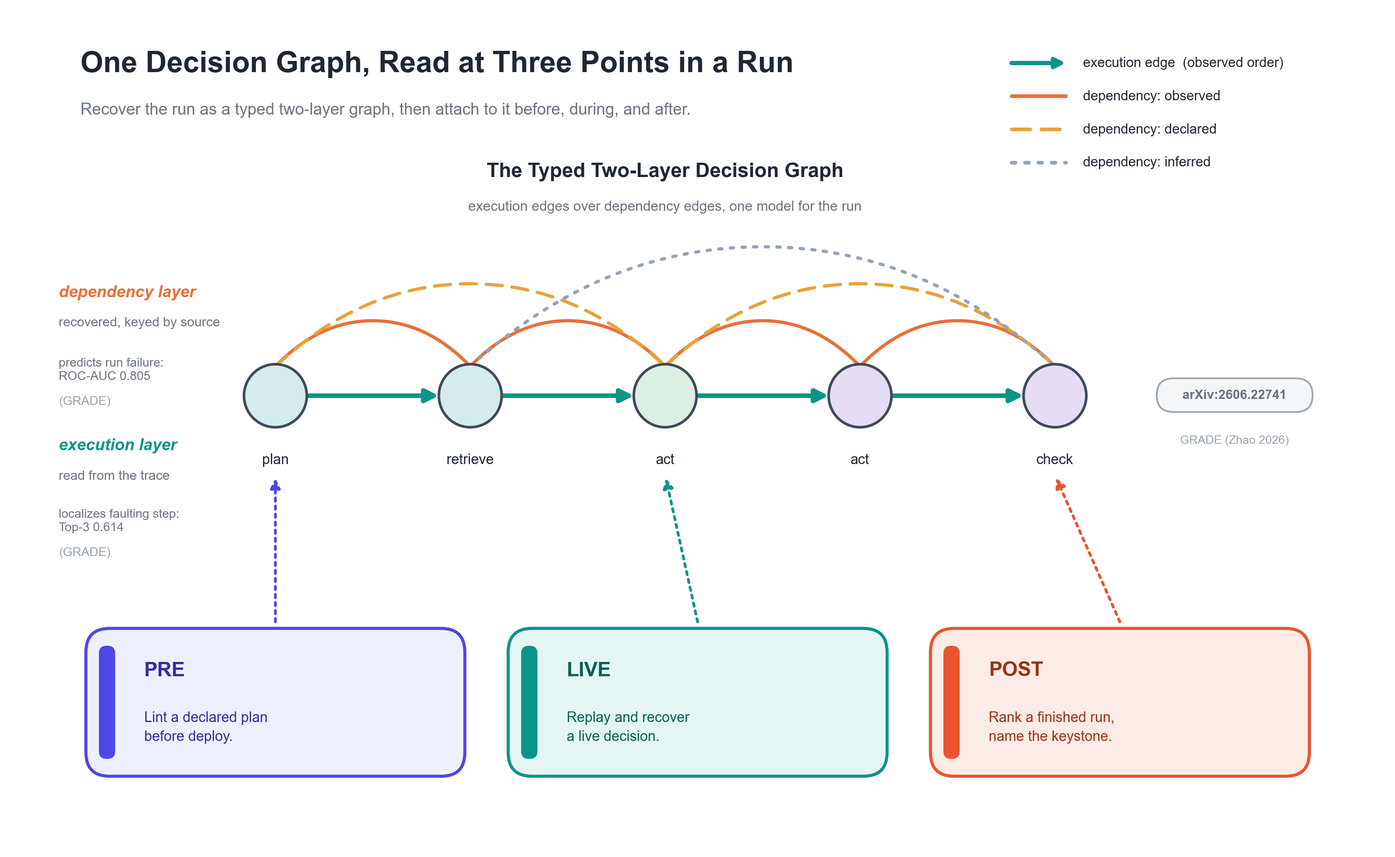
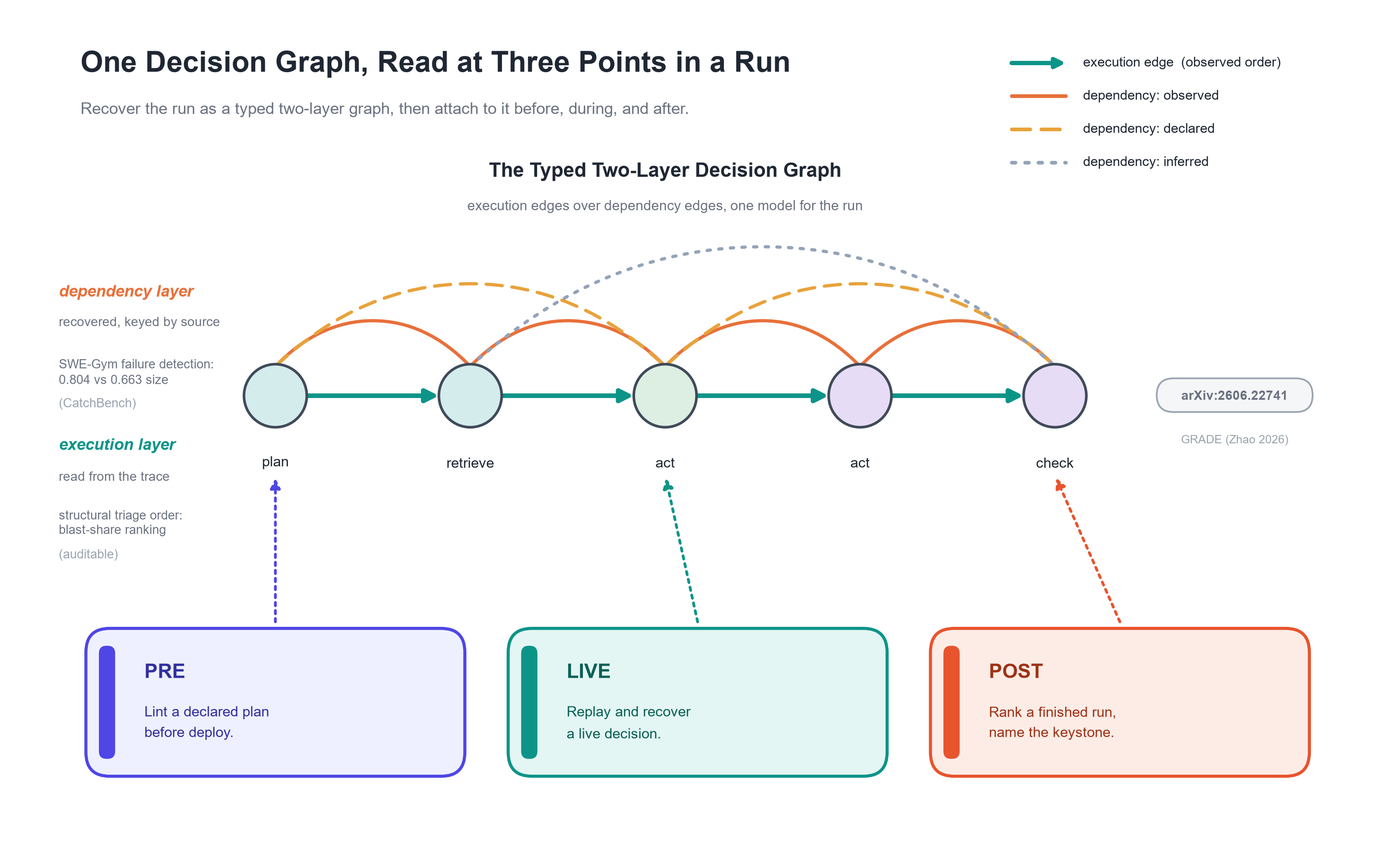
Attribute the localization numbers to the method that earned them, and ship 0.2.1
The product copy claimed results the about-to-publish benchmark contradicts. Top-3 0.614 was
advertised as this package's own, and it belongs to GRADE's supervised execution-feature ranker;
the shipping blast-share method scores 0.516 and ties the position prior at displayed precision.
A "run length carries no signal" line sat next to a 0.663 run-length baseline. The docs now name
the method behind each number, and every figure in the prose matches the shipped board.

The regenerated localization figure labels its methods, so a reader can see which curve is ours.
The quickstart no longer tells a PyPI installer to run examples/, which the wheel does not carry.
The retired benchmark name is gone.

0.2.1 exists because a PyPI description cannot be edited after release: the corrected wording only
reaches the project page through a new version.

diff --git a/assets/figure-src/analyze_run_mockup.html b/assets/figure-src/analyze_run_mockup.html
@@ -73,7 +73,7 @@
         <span class="brand">auditable<span class="dot">.</span></span>
         <span class="tag">Rank a recorded agent run by structural risk</span>
       </div>
-      <div class="sub">Build one decision graph from a run, then flag the single decision the rest of the run depends on, and review that first.</div>
+      <div class="sub">Build one decision graph from a run, then rank every step by structural blast share and name the keystone.</div>
     </div>
 
     <div class="body">
@@ -123,7 +123,7 @@
         <div class="clabel">auditable <span class="n">· structural-risk output (analyze_run)</span></div>
         <div class="keycard">
           <div class="kl">
-            <div class="t">KEYSTONE · REVIEW FIRST</div>
+            <div class="t">KEYSTONE · STRUCTURAL TRIAGE</div>
             <div class="tool">get_reservation_details</div>
             <div class="s">2 of 6 other steps transitively rest on this one read</div>
           </div>

diff --git a/examples/example_post_rank_run.py b/examples/example_post_rank_run.py
@@ -2,21 +2,21 @@
 
 What this shows, in plain terms: given a run that already finished, auditable
 builds one typed decision graph over it, scores every step by how much of the
-rest of the run rests on it, and names the single step to review first (the
-keystone). This is the lifecycle pillar where the GRADE results live.
+rest of the run rests on it, and names the keystone that heads this structural
+triage order.
 
-GRADE relation (cite arXiv:2606.22741): the graph's two layers are what GRADE
-measures on a six-corpus benchmark. The dependency layer PREDICTS run failure
-(ROC-AUC 0.805 on SWE-Gym, +0.142 over the run-length baseline), and the
-execution layer LOCALIZES the faulting step (Top-3 0.614 on Who&When). IMPORTANT:
-those are GRADE full-corpus numbers, NOT outputs of this example. The trajectory
-below is a small illustrative tau-bench-style run; it prints a keystone ranking,
-not a benchmark score. The corpus-scale evaluation lives in GRADE.
+CatchBench relation: on SWE-Gym, ``auditable (size+deps)`` scores ROC-AUC 0.804
+against 0.663 for ``size (flat)``; comparisons with ECOD and GUARDIAN remain
+unresolved. On Who&When, Top-3 0.614 belongs to GRADE's supervised
+``exec-rank (sup.)``. The shipping ``auditable (blast share)`` method scores
+0.516 and ties the position prior at displayed precision. These are benchmark
+numbers, NOT outputs of this example. The trajectory below is a small
+illustrative tau-bench-style run and prints a structural keystone ranking.
 
 auditable attaches at three points in an agent's lifecycle. This is the POST
 pillar: read a recorded run after it completes, build one typed session decision
 graph, score every step by how much of the rest of the run transitively rests on
-it, and report the riskiest decision to review first. The other two pillars are
+it, and report the keystone that heads the structural triage order. The other two pillars are
 example_pre_lint_plan.py (PRE: lint a declared plan before deploy) and
 example_live_replay.py (LIVE: replay under live state and execute a fix). All
 three run over the same typed two-layer graph. No live agent, no API key, no
@@ -91,7 +91,7 @@ def main():
     print(
         f"\nKeystone: step {k.idx} ({k.node_attrs['tool']}) -- "
         f"two consequential writes (rebook, add bag) rest on this one read, "
-        f"so auditable ranks it first to review."
+        f"so it heads auditable's structural triage order."
     )
 
 

diff --git a/figure-src/localization.py b/figure-src/localization.py
@@ -1,0 +1,66 @@
+"""Generate the method-labeled CatchBench localization figure."""
+
+from pathlib import Path
+
+import matplotlib
+
+matplotlib.use("Agg")
+import matplotlib.pyplot as plt
+import numpy as np
+
+
+ROOT = Path(__file__).resolve().parent.parent
+METRICS = ("Top-1", "Top-3", "MRR")
+METHODS = (
+    ("random", (0.119, 0.346, 0.324), "#c7c7c7"),
+    ("position prior", (0.159, 0.516, 0.407), "#b9d9cc"),
+    ("auditable (blast share)", (0.159, 0.516, 0.407), "#e8a23a"),
+    ("exec-rank (sup.)", (0.211, 0.614, 0.454), "#3c5488"),
+)
+
+
+fig, ax = plt.subplots(figsize=(7.4, 4.2))
+x = np.arange(len(METRICS))
+width = 0.19
+
+for offset, (label, values, color) in enumerate(METHODS):
+    bars = ax.bar(
+        x + (offset - 1.5) * width,
+        values,
+        width,
+        label=label,
+        color=color,
+        edgecolor="#20242a",
+        linewidth=0.8,
+    )
+    ax.bar_label(bars, fmt="%.3f", padding=2, fontsize=7.5)
+
+ax.set_title(
+    "Supervised exec-rank leads structural baselines on Top-3",
+    loc="left",
+    fontsize=14,
+    fontweight="bold",
+    pad=18,
+)
+ax.text(
+    0,
+    1.02,
+    "Who&When, CatchBench; auditable blast share ties the position prior",
+    transform=ax.transAxes,
+    fontsize=9.5,
+    color="#666666",
+)
+ax.set_ylabel("score (higher is better)")
+ax.set_xticks(x, METRICS)
+ax.set_ylim(0, 0.72)
+ax.grid(axis="y", color="#dddddd", linewidth=0.8)
+ax.set_axisbelow(True)
+ax.spines[["top", "right"]].set_visible(False)
+ax.legend(frameon=False, fontsize=8.5, ncols=2, loc="upper left")
+fig.tight_layout()
+
+for directory in (ROOT / "assets", ROOT / "docs" / "assets"):
+    directory.mkdir(parents=True, exist_ok=True)
+    fig.savefig(directory / "grade-localization.png", dpi=200, facecolor="white")
+
+print("wrote grade-localization.png to assets/ and docs/assets/")

diff --git a/figure-src/lifecycle.py b/figure-src/lifecycle.py
@@ -142,14 +142,14 @@ text(4.0, 36.4, "execution layer", color=TEAL, size=10.5, weight="bold",
      ha="left", style="italic")
 text(4.0, 33.6, "read from the trace", color=MUTE, size=8.5, ha="left")
 
-# muted GRADE result tag under each layer (left-margin empty space; the two
+# muted result tag under each layer (left-margin empty space; the two
 # value lines wrap to stay left of the node row and the pillar stems)
-text(4.0, 44.5, "predicts run failure:\nROC-AUC 0.805", color=MUTE, size=8,
+text(4.0, 44.5, "SWE-Gym failure detection:\n0.804 vs 0.663 size", color=MUTE, size=8,
      ha="left", va="top", spacing=1.25)
-text(4.0, 41.0, "(GRADE)", color=FAINT, size=8, ha="left", va="top")
-text(4.0, 30.6, "localizes faulting step:\nTop-3 0.614", color=MUTE, size=8,
+text(4.0, 41.0, "(CatchBench)", color=FAINT, size=8, ha="left", va="top")
+text(4.0, 30.6, "structural triage order:\nblast-share ranking", color=MUTE, size=8,
      ha="left", va="top", spacing=1.25)
-text(4.0, 27.1, "(GRADE)", color=FAINT, size=8, ha="left", va="top")
+text(4.0, 27.1, "(auditable)", color=FAINT, size=8, ha="left", va="top")
 
 # graph label, centered above the dependency arc fan
 text(60, 61.6, "The Typed Two-Layer Decision Graph", color=INK, size=13.0,

diff --git a/src/auditable/audit_report.py b/src/auditable/audit_report.py
@@ -645,7 +645,7 @@ class AuditReport:
         ]
 
     def _md_keystone(self) -> List[str]:
-        """The ``## Keystone`` section: the single step to review first.
+        """The ``## Keystone`` section: the head of the structural triage order.
 
         The POST blast-radius keystone leads (it is the runtime triage signal). The
         PRE execution-topology chokepoint is reported alongside as a distinct named

diff --git a/examples/example_state_anomaly.py b/examples/example_state_anomaly.py
@@ -115,7 +115,8 @@ def main():
 
     print("\nHonesty note: this is a concept demo on synthetic faults, not benchmark evidence.")
     print(
-        "Benchmark-grade evidence is AuditableBench-Gold on a named-value substrate."
+        "An artifact-controlled CatchBench Gold board on a named-value substrate "
+        "remains the validation target."
     )
 
 

diff --git a/examples/example_langchain_capture.py b/examples/example_langchain_capture.py
@@ -92,7 +92,7 @@ def main():
             f"\nKeystone: step {keystone.idx} "
             f"({keystone.node_attrs.get('runnable') or keystone.label}) -- "
             "the approval and ledger result both rest on this captured handoff, "
-            "so it is the first step to review."
+            "so it heads the structural triage order."
         )
 
 

diff --git a/examples/example_langgraph_capture.py b/examples/example_langgraph_capture.py
@@ -97,7 +97,7 @@ def main():
         print(
             f"\nKeystone: step {k.idx} ({k.node_attrs.get('langgraph_node')}) -- "
             f"the approval and the ledger entry both rest on this read, so a stale "
-            f"budget here is the first thing to review."
+            f"budget here would have broad downstream impact."
         )
 
 

diff --git a/src/auditable/__init__.py b/src/auditable/__init__.py
@@ -36,7 +36,7 @@ from .analysis import AnalysisReport, LiveSession, analyze_run
 from .report import render_report
 from .graph.adapters import Adapter
 
-__version__ = "0.2.0"
+__version__ = "0.2.1"
 
 __all__ = [
     "__version__",

diff --git a/README.md b/README.md
@@ -27,32 +27,33 @@
 | One graph across plan, run, and review | ✅ | 🟡 | ❌ | ❌ |
 | Framework-agnostic, dependency-free core | ✅ | 🟡 | 🟡 | 🟡 |
 
-<sub>✅ yes · 🟡 partial · ❌ no, per each tool's public docs (2026). These categories are complementary to `auditable`, not competitors: tracing captures execution, evals score quality, guardrails block at runtime. `auditable` is the audit-and-recovery layer that plugs into them. See [References](#references).</sub>
+<sub>✅ yes · 🟡 partial · ❌ no, per the named tools' public docs (2026). These categories are complementary to `auditable`, not competitors: tracing captures execution, evals score quality, and guardrails block at runtime. `auditable` is the audit-and-recovery layer that plugs into them. See [References](#references).</sub>
 
-**`auditable` is the only column with the full set.** What makes it new:
+**Among the named tools in this documentation-based comparison, `auditable` is the only column with the full set.** What makes it new:
 
 - **A unified graph representation for agentic AI.** Every agent run becomes one typed graph that PRE, LIVE, and POST all read. One representation from plan to live operation to review, instead of three disconnected tools.
 - **Recover, do not just observe.** `auditable` captures the dependency state a decision relied on, replays it under the state that is live now, and reverses the committed action through a compensating rail when it no longer holds. Logging tells you what broke; `auditable` undoes it.
 - **One decision, three spans, judged together.** Data, model, and harness are bound in a single signed, hash-chained record, so a decision is audited as one unit, not three disconnected logs.
 
-### Proven on Public Agent Benchmarks
+### Measured on Public Agent Traces
 
-The graph is not just structure. Across six public agent corpora (GRADE, [arXiv:2606.22741](https://arxiv.org/abs/2606.22741)), the dependency layer predicts which runs fail at **ROC-AUC 0.805** where run length carries no signal, and the execution layer localizes the faulting step at **Top-3 0.614**. See [the benchmark detail](docs/post-analysis.md) for the full numbers and corpora.
+The graph is not just structure. On the CatchBench SWE-Gym board, **`auditable (size+deps)` scores ROC-AUC 0.804 against 0.663 for `size (flat)`**. Registered paired comparisons with ECOD and GUARDIAN remain unresolved. See [the benchmark detail](docs/post-analysis.md) for the localization results, full method names, and limitations.
 
 <p align="center">
-  <img src="https://raw.githubusercontent.com/yzhao062/auditable/main/assets/grade-transfer.png" alt="Leave-one-corpus-out transfer ROC-AUC: the size-normalized dependency signal clears chance on all six held-out agent corpora, while run size drops below chance on tau-bench and SWE-Gym" width="49%">
-  <img src="https://raw.githubusercontent.com/yzhao062/auditable/main/assets/grade-localization.png" alt="Step-level fault localization on Who and When: ranking steps by execution-graph structure beats an early-fault position prior on top-1, top-3, and MRR" width="49%">
+  <img src="https://raw.githubusercontent.com/yzhao062/auditable/main/assets/grade-transfer.png" alt="GRADE leave-one-corpus-out transfer ROC-AUC for size-normalized dependency features and run size across six held-out agent corpora" width="70%">
 </p>
-<p align="center"><sub>Figures from GRADE (<a href="https://arxiv.org/abs/2606.22741">arXiv:2606.22741</a>).</sub></p>
+<p align="center"><sub>Leave-one-corpus-out transfer analysis from GRADE (<a href="https://arxiv.org/abs/2606.22741">arXiv:2606.22741</a>), separate from the CatchBench board result above.</sub></p>
 
-Agents act on dependency state that quietly drifts. A budget read minutes ago can fall below the amount already committed; a price pinned at plan time can move before the action lands. Most tools log what happened, yet they cannot re-decide under the state that is live now, so a stale decision stands until a human notices. `auditable` closes that recovery gap across the lifecycle on one graph: it captures the decision, replays it against live state, and reverses the committed action when it no longer holds.
+Agents act on dependency state that quietly drifts. A budget read minutes ago can fall below the amount already committed; a price pinned at plan time can move before the action lands. The named tracing, eval, and guardrail tools above do not combine dependency capture, live-state replay, and rollback in one layer. `auditable` closes that recovery gap across the lifecycle on one graph: it captures the decision, replays it against live state, and reverses the committed action when it no longer holds.
 
 ## The Flagship Moment
 
 One payment, walked through the whole lifecycle in 18 `auditable` calls. The agent approves a $2,083.20 vendor payment against a budget snapshot that covered it. Six days later the live budget has dropped below the amount. `replay` re-decides on the live state, and the gate reverses the committed payment. This is recovery, not a log line.
 
 ```bash
-pip install "auditable[graph]"
+git clone https://github.com/yzhao062/auditable.git
+cd auditable
+python -m pip install ".[graph]"
 python examples/example_end_to_end.py
 ```
 
@@ -78,7 +79,9 @@ print(report.keystone)                           # the step the rest of the run 
 ```
 
 ```bash
-pip install "auditable[langgraph]"
+git clone https://github.com/yzhao062/auditable.git
+cd auditable
+python -m pip install ".[langgraph]"
 python examples/example_langgraph_capture.py     # a real LangGraph run -> observed=100%, keystone named
 ```
 
@@ -116,7 +119,7 @@ The first six rows capture a real run; see [Plug In Your Agent](#plug-in-your-ag
 |---|---|---|---|
 | **PRE** | Before deploy | `analyze_plan` | Read-only structural lints on a declared plan. Names the control-flow chokepoint. Dependency-state risk withheld. |
 | **LIVE** | While running | `audit` + `replay` + `ActionGate` | Capture a decision, re-decide under live state, route a fix (allow, block, review, rollback) through a rail. The sharpest pillar. |
-| **POST** | After a run | `analyze_run` | Rank a finished run by structural blast share. Name the keystone the run rests on, so you review that step first. |
+| **POST** | After a run | `analyze_run` | Rank a finished run by structural blast share and name the keystone for structural triage. |
 
 ## Install
 
@@ -191,7 +194,7 @@ See [`examples/example_pre_lint_plan.py`](examples/example_pre_lint_plan.py) and
 <details>
 <summary><b>POST: rank a finished run, find the keystone</b> (`analyze_run` over a recorded trajectory)</summary>
 
-`analyze_run` reads a recorded agent run, builds one decision graph, and ranks every step by how much of the run transitively rests on it, so you review the keystone first. On a tau-bench airline trajectory, the one reservation read that both later writes depend on is the keystone.
+`analyze_run` reads a recorded agent run, builds one decision graph, and ranks every step by how much of the run transitively rests on it. The keystone heads this structural triage order. On a tau-bench airline trajectory, the one reservation read that both later writes depend on is the keystone.
 
 ![auditable analyze_run ranks a recorded tau-bench run by structural blast share and names the keystone decision](https://raw.githubusercontent.com/yzhao062/auditable/main/assets/analyze_run.png)
 
@@ -219,7 +222,7 @@ The graph kernel has two edge layers, and the distinction is load-bearing. Execu
 
 One agent decision crosses three spans, and `auditable` binds all three in a single signed, hash-chained record:
 
-| Span | What the Record Binds | Signal in v0.1 |
+| Span | What the Record Binds | Current Signal |
 |---|---|---|
 | **Data** | What the agent read and the dependency snapshot it relied on | Snapshot freshness |
 | **Model** | Which model produced the output, and its stated basis | Decision-basis trust flag |

diff --git a/docs/architecture.md b/docs/architecture.md
@@ -36,7 +36,7 @@ The library is torch-free. The graph layer depends only on NetworkX, installed t
 
 One agent decision spans three layers, and `auditable` records all three in a single `DecisionRecord` so the decision is judged as one unit rather than three disconnected logs.
 
-| Span | What it captures | Standalone auditor | v0.1 signal |
+| Span | What it captures | Standalone auditor | Current signal |
 |---|---|---|---|
 | Data | What the agent read, plus the dependency snapshot it relied on | `DataAuditor` | Snapshot freshness rule (`flag` / `score` / `reason`) |
 | Model | Which model produced the output, and its stated decision basis | `ModelAuditor` | Decision-basis trust flag |
@@ -46,7 +46,7 @@ Each span attaches a normalized `Report` (the leaf an `Auditor` returns), with a
 
 The three standalone auditors each subclass the `Auditor` base (the detect-face base class, analogous to a base detector in a detector library: set `stage` and `name`, implement `assess`, return a `Report`). Each is usable on its own with no agent and no chain. They are inputs to the record, and the composed full-chain record is the main line; see [Using a Single Layer](quickstart.md#using-a-single-layer) for the standalone path.
 
-The `CompoundReport` is a transparent v0.1 bundle over the three leaves. It preserves the per-stage breakdown and exposes an explicitly named `uncalibrated_score` (the maximum of the per-stage scores) for debugging. This score is uncalibrated by design, it is not decision-grade, and it does not drive recovery; recovery is driven by the replay verdict (see [LIVE Replay and Recovery](realtime-replay.md)). A calibrated cross-layer combiner is on the roadmap.
+The `CompoundReport` is a transparent bundle over the three leaves. It preserves the per-stage breakdown and exposes an explicitly named `uncalibrated_score` (the maximum of the per-stage scores) for debugging. This score is uncalibrated by design, it is not decision-grade, and it does not drive recovery; recovery is driven by the replay verdict (see [LIVE Replay and Recovery](realtime-replay.md)). A calibrated cross-layer combiner is on the roadmap.
 
 ## Ingestion Adapters: One Representation, Many Sources
 
@@ -64,12 +64,14 @@ The declared-plan adapter is the neutral seam a LangGraph, CrewAI, or AutoGen fr
 
 ## Capturing a Real Run
 
-The corpus and plan adapters above lower an existing artifact (a trajectory, a record chain, a plan dict). To capture a real agent run, two paths produce `observed` dependency edges with a structured `ResourceRef`, the runtime resource-touch contract in `auditable.graph.touch`.
+The corpus and plan adapters above lower an existing artifact (a trajectory, a record chain, a plan dict). Real-run capture produces `observed` dependency edges through the runtime resource-touch contract in `auditable.graph.touch`. The generic `TouchRecorder` is the foundation, with shipping integrations for LangGraph, LangChain, and FastMCP.
 
 The contract is a read-after-write match. A step records the resources it read and the resources it wrote; a read of a resource binds to the writer(s) of that resource committed in an earlier step. The match is **superstep-aware** (writes commit at a step barrier, so two steps that ran without seeing each other's writes never produce an edge between them) and **reducer-aware** (a channel that accumulates writes fans in from every writer, marked `modeled` in evidence; an overwrite channel binds the single last writer). The grade is `observed` as a channel-level touch match, with evidence carrying `granularity: "channel"` and `relation: "read_after_committed_write"`. It is an observed touch, not a precise causal claim.
 
 - **`TouchRecorder`** (`auditable.graph.touch`) is the framework-agnostic path: wrap each consequential step in `with rec.step(...) as st:` and declare `st.reads(...)` / `st.writes(...)`. It implements the `Adapter` protocol and is its own source, so `analyze_run(rec, adapter=rec)` lowers the run.
 - **LangGraph capture** (`auditable.integrations.langgraph.instrument`, optional `auditable[langgraph]` extra) derives those touches automatically. `instrument(StateGraph(State))` wraps each node so the state it receives logs the channels it reads, and the node's returned update logs the channels it writes; the superstep comes from `config["metadata"]["langgraph_step"]` and the reducer channels from the state-schema annotations. Build, compile, and invoke as usual, then call `analyze_run(builder, adapter=builder)`. The core never imports `langgraph`. Tested against langgraph 1.2.x; v1 captures TypedDict-shaped state and plain sync or async function nodes (Runnable nodes and conditional-routing reads pass through without capture).
+- **LangChain capture** (`auditable.integrations.langchain.LangChainCallbackHandler`, optional `auditable[langchain]` extra) records runnable and tool activity through a callback and lowers the captured run through the same analysis interface.
+- **MCP capture** (`auditable.integrations.mcp.instrument`, optional `auditable[mcp]` extra) instruments a FastMCP server in place and records tool-boundary traffic. Its v1 scope is FastMCP servers and tool traffic, not arbitrary low-level MCP servers or model-internal state.
 
 ## Sinks: Persisting the Signed Record
 
@@ -78,13 +80,12 @@ A sink signs each record and chains it to the previous one. Two concrete sinks s
 - `MemorySink` is the default in-process sink. It holds records in a list, signing and chaining each one as it is appended.
 - `FileSink` is an append-only JSONL sink: one signed record per line, durable across process exit. It fails closed on a corrupt tail. A blank line or an empty file is fine, but a corrupt, non-object, or `record_id`-less line raises rather than silently restarting the chain, which would otherwise let a damaged tail fork an append-only tamper-evident log.
 
-Pluggable sinks for external destinations (for example, OpenTelemetry or LangSmith) and exportable evidence bundles are on the roadmap.
+Pluggable sinks for external destinations (for example, OpenTelemetry or LangSmith) and exportable evidence bundles remain on the roadmap.
 
 ## Roadmap
 
-The shipping architecture is the typed two-layer graph, the three-span signed record, the three reference adapters, the two real-run capture paths (LangGraph `instrument` and the `TouchRecorder`), and the two sinks. Planned additions, all labeled as roadmap and not shipping today:
+The shipping architecture in v0.2.1 is the typed two-layer graph, the three-span signed record, the three reference adapters, real-run capture through `TouchRecorder`, LangGraph, LangChain, and FastMCP, `LiveSession` prefix scoring, the optional fitted PyOD `DataAuditor`, and the two sinks. Planned additions:
 
-- A fitted data-anomaly score (with a PyOD backend) on the data span, with the freshness rule as a fallback (v0.2).
 - A calibrated cross-layer compound and model-as-first-class-node grounding beyond the current deterministic check (v0.3).
-- Live / incremental scoring on the prefix graph as a run unfolds. (The runtime resource-touch contract that fills the structured `ResourceRef` from an observed read/write match now ships for the LangGraph capture path and the `TouchRecorder`; see [Capturing a Real Run](#capturing-a-real-run).)
-- Pluggable sinks (OpenTelemetry, LangSmith), exportable evidence bundles, and a stable public API (v1.0), plus more framework integrations (LangChain, CrewAI) and an MCP server.
+- A more efficient incremental kernel for `LiveSession`; the current implementation re-scores each prefix from scratch.
+- Pluggable sinks (OpenTelemetry, LangSmith), exportable evidence bundles, and a stable public API (v1.0), plus a CrewAI integration.

diff --git a/docs/post-analysis.md b/docs/post-analysis.md
@@ -1,6 +1,6 @@
 # POST: Rank a Finished Run, Find the Keystone
 
-POST reads a run after it finished and tells you which step to review first. It scores every step by how much of the rest of the run leans on it, then names the keystone: the one step that, if it went wrong, would have dragged the most of the run with it. When you have a failed run and a hundred steps, POST points at the step worth opening first.
+POST reads a run after it finished and produces a structural triage order. It scores every step by how much of the rest of the run leans on it, then names the keystone: the step that, if it went wrong, would have dragged the most of the run with it. This ordering is not a claim that the keystone is the fault or that it should precede other review evidence. On Who&When, the shipping blast-share ranker ties the position prior at displayed precision.
 
 You hand `analyze_run` a finished run and read the keystone off the report:
 
@@ -12,22 +12,22 @@ report = analyze_run(run, adapter=tau_bench_prior_db_reads_v1)
 print(report.keystone.idx)   # the step the rest of the run rests on
 ```
 
-The full runnable script is [`examples/example_post_rank_run.py`](https://github.com/yzhao062/auditable/blob/main/examples/example_post_rank_run.py); run it with `python examples/example_post_rank_run.py` (needs the `graph` extra). The [POST Examples](post-examples.md) page walks the output.
+The full runnable script is [`examples/example_post_rank_run.py`](https://github.com/yzhao062/auditable/blob/main/examples/example_post_rank_run.py); run it from a [source checkout](quickstart.md#running-the-examples) with `python examples/example_post_rank_run.py` (needs the `graph` extra). The [POST Examples](post-examples.md) page walks the output.
 
-The per-run score POST prints is a within-run ranking, not a benchmark number. The published benchmark evidence that the two graph layers carry real signal lives in GRADE, summarized next.
+The per-run score POST prints is a within-run ranking, not a benchmark number. CatchBench evaluates the package's structural methods against labeled runs, summarized next.
 
-## What the Graph Layers Predict (GRADE Evidence)
+## What CatchBench Establishes
 
-The POST ranking reads the typed two-layer graph: a dependency layer (what each step relied on) over an execution layer (control flow). GRADE ([arXiv:2606.22741](https://arxiv.org/abs/2606.22741)) measures each layer against labeled agent runs across six public corpora: tau-bench and tau2-bench (tool use); SWE-agent, SWE-Gym, and OpenHands (coding); and AgentRewardBench (web).
+The POST ranking reads the typed two-layer graph: a dependency layer (what each step relied on) over an execution layer (control flow). CatchBench scores named methods built from those layers against labeled agent runs.
 
-- **The dependency layer predicts whether a run will fail.** On SWE-Gym it reaches ROC-AUC 0.805, +0.142 over the run-length baseline (0.663), with reliable lift on the three size-weak corpora (5 of 5 seeds). Under a leave-one-corpus-out transfer test, the dependency signal stays 0.551 to 0.662 above chance on all six corpora, while the run-length baseline inverts below 0.5 (0.468 on tau-bench, 0.350 on SWE-Gym).
-- **The execution layer ranks steps toward the faulting step.** On Who&When (126 failed runs), ranking by execution structure reaches Top-3 0.614, MRR 0.454, and Top-1 0.211, against a position prior at 0.516 / 0.407 / 0.159 and a random floor at 0.346 / 0.324 / 0.119.
+- **Dependency features detect failed runs beyond run size on SWE-Gym.** `auditable (size+deps)` scores ROC-AUC 0.804 against 0.663 for `size (flat)`. Its paired comparisons with ECOD at 0.765 and GUARDIAN at 0.767 remain unresolved, so this board does not order those three methods.
+- **Top-3 0.614 belongs to the supervised execution-feature ranker, not the package's blast-share ranker.** On Who&When (126 failed runs), GRADE's `exec-rank (sup.)` scores Top-3 0.614, MRR 0.454, and Top-1 0.211. The shipping `auditable (blast share)` method scores 0.516 / 0.407 / 0.159 and ties the position prior at displayed precision.
 
 ![Leave-one-corpus-out transfer ROC-AUC: the size-normalized dependency signal clears chance on all six held-out agent corpora, while run size drops below chance on tau-bench and SWE-Gym](assets/grade-transfer.png)
 
-![Step-level fault localization on Who and When: ranking steps by execution-graph structure beats an early-fault position prior on top-1, top-3, and MRR](assets/grade-localization.png)
+![GRADE supervised exec-rank point estimates for step-level fault localization on Who and When, shown against a position prior and random floor](assets/grade-localization.png)
 
-These are GRADE's published benchmark results for the two layers. The POST per-run keystone signal below is the same structure applied to a single run, surfaced as an uncalibrated triage ranking rather than a calibrated probability.
+The transfer figure is GRADE's leave-one-corpus-out analysis; the method-specific values above are the current CatchBench board. The POST per-run keystone signal below is surfaced as an uncalibrated structural triage ranking rather than a calibrated probability.
 
 The rest of this page is the reference for `analyze_run`, the `AnalysisReport` it returns, the no-score gates, and the caveats that travel with the score.
 
@@ -51,11 +51,11 @@ print(report)
 
 The per-step score is the normalized transitive blast share: of the rest of the run, how much transitively depends on this step. It is computed as `downstream_reach` over the dependency DAG, normalized by the number of other steps. A step that many later steps rest on scores high, because a fault there would propagate widely. This is the keystone signal.
 
-The score is an uncalibrated triage ranking, not a calibrated probability. It orders steps so the one most worth reviewing first comes first; it does not assert a likelihood that any step is wrong. Calibration would require labeled data and is not claimed here.
+The score is an uncalibrated structural triage ranking, not a calibrated probability. It orders steps by transitive blast share; it does not assert a likelihood that any step is wrong or establish an advantage over the position prior. Calibration would require labeled data and is not claimed here.
 
 ### The Keystone
 
-The keystone is the worst-blast step: the one that the most of the run transitively rests on. It is surfaced as `AnalysisReport.keystone` (a `DecisionRisk` row) with `per_session` carrying its blast share (the run-level risk). The report's rendered summary names it directly, for example "two consequential writes rest on this one read, so it ranks first to review."
+The keystone is the worst-blast step: the one that the most of the run transitively rests on. It is surfaced as `AnalysisReport.keystone` (a `DecisionRisk` row) with `per_session` carrying its blast share (the run-level risk). The report's rendered summary names it directly and explains its position, for example "two consequential writes rest on this one read, so it heads the structural triage order."
 
 The POST keystone is computed over the dependency DAG and is a distinct concept from the PRE execution keystone, which is a structural control-flow chokepoint over the `handoff_to` projection (see [PRE Rules](pre-rules.md)). The two are named separately in the code and must not be conflated.
 
